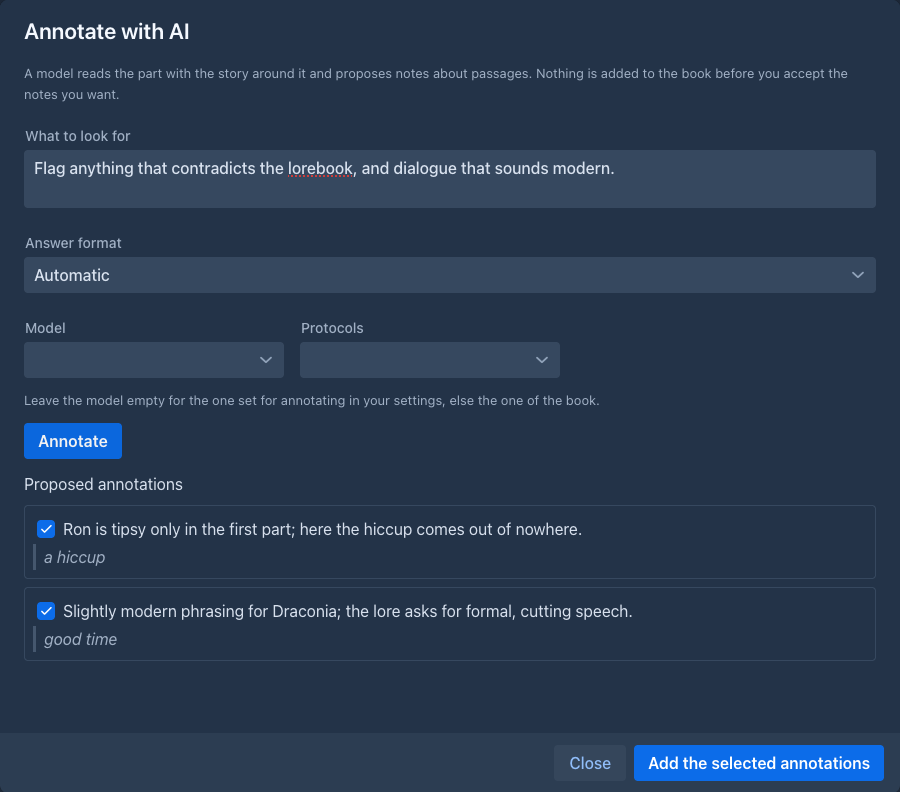
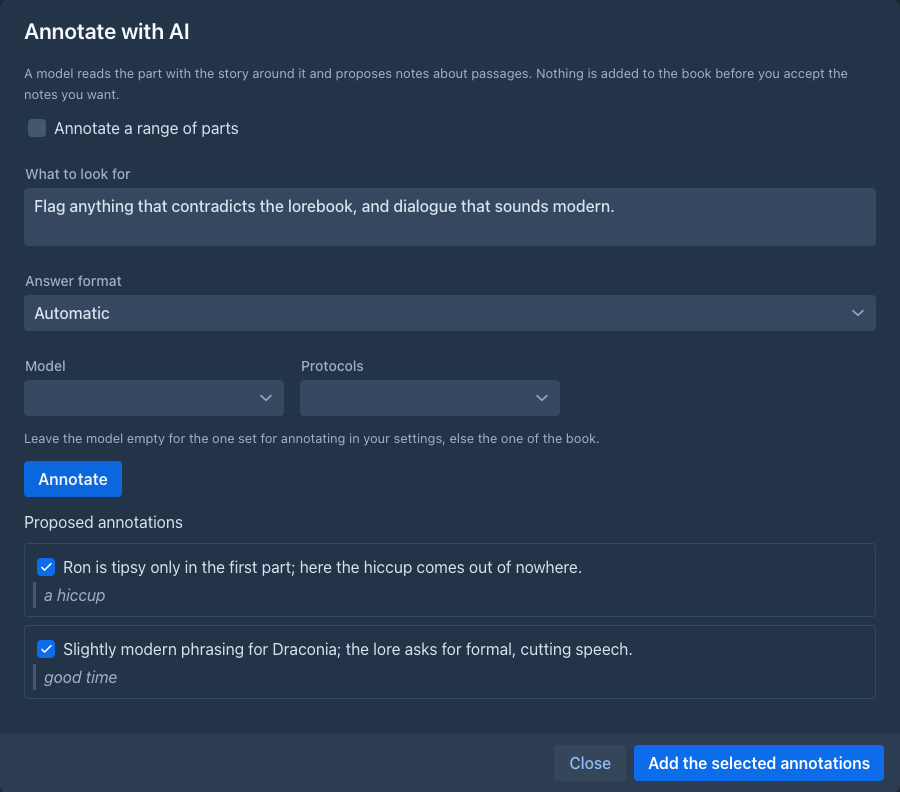
Screenshots: retake the annotate window, add the batch picture
The window got the range of parts; annotate-ai-batch.png shows a run on two
parts with the proposals listed by part. New section in shoot-features.

Claude-Session: https://claude.ai/code/session_019b7kJTgveW6aPC6Cc4pCYH

diff --git a/screenshots/SCREENSHOTS.md b/screenshots/SCREENSHOTS.md
@@ -159,7 +159,7 @@ characters... would show in the outline, the prompt and the token numbers of the
 | `plugin-stconverter` | a **copy** of `13-db-backup`, discarded | uploads the chat of `dataset/stchat.mjs` to the ST Converter tab, chooses the whole range and converts it (the turn details are queued in the fake model): `plugin-stconverter-chat`, `plugin-stconverter-turns` |
 | `plugin-manga` | a **copy** of `13-db-backup`, discarded | the Manga Generator window: a manga, a section, the script and the tags (queued in the fake model): `plugin-manga`, `plugin-manga-tags` |
 | `plugin-anthropic` | a **copy** of `13-db-backup`, discarded | installs the Anthropic Claude JAR (36 MB), adds a provider of the type *Extension* with a placeholder key (nothing is sent to Anthropic): `plugin-anthropic`, `plugin-anthropic-list` |
-| `shoot-features` | a **copy** of `13-db-backup`, discarded | the screens of 1.5.0: annotations (the window, the right click menu of the text, the popover of a mark, the margin, the tab), the model that annotates (answer queued in the fake model), redraft, merge of two parts, branch tokens, drafting the instructions; then the workspace: keyboard shortcuts, advanced search of the books, import from SillyTavern (`dataset/stchat.mjs` makes the chat), preview of the activation of a lorebook, resource files, the light theme |
+| `shoot-features` | a **copy** of `13-db-backup`, discarded | the screens of 1.5.0: annotations (the window, the right click menu of the text, the popover of a mark, the margin, the tab), the model that annotates, one part and a range of parts (answers queued in the fake model), redraft, merge of two parts, branch tokens, drafting the instructions; then the workspace: keyboard shortcuts, advanced search of the books, import from SillyTavern (`dataset/stchat.mjs` makes the chat), preview of the activation of a lorebook, resource files, the light theme |
 | `shoot-invalid-extensions` | a **copy** of `13-db-backup`, discarded | the Author's Note JAR is replaced by the broken one (`bin/make-broken-plugin.py`) and its `.valid` report deleted before the start (the block in `bin/shoot-all.sh`): the red bar, `invalid-extensions-warning` |
 | `shoot-tabs` | a **copy** of `22-arcoutline`, discarded | drags *Side Query* under the other tabs and *Characters* into a column of its own (the arrangement is saved with the book): `story-editor-tabs` |
 | `plugin-instructionexporter`, `plugin-chinese`, `shoot-export` | `21-chaptermarker` | the menu item, the UI in Chinese (the language is reset), `export-result` (PDF page 1 and 2 with `pdftoppm` + `magick`) |

diff --git a/manual/user/books/annotations.md b/manual/user/books/annotations.md
@@ -124,6 +124,8 @@ and starts no more; what was found until then stays in the list. A part whose an
 not fit the context of the model is skipped (the window says which) and the run goes on; a failure of the model ends the run.
 Every part is a request to the model, so a long range costs as many requests (and tokens).
 
+![Annotating a range of parts: the proposals are listed under the number of their part](../../images/annotate-ai-batch.png)
+
 If an answer can't be read, Marginalia asks once more; if it still can't be read, the model's answer is shown so the work
 is not lost. The prompt is the [annotate prompt](prompts.md#annotate-prompt).
 
